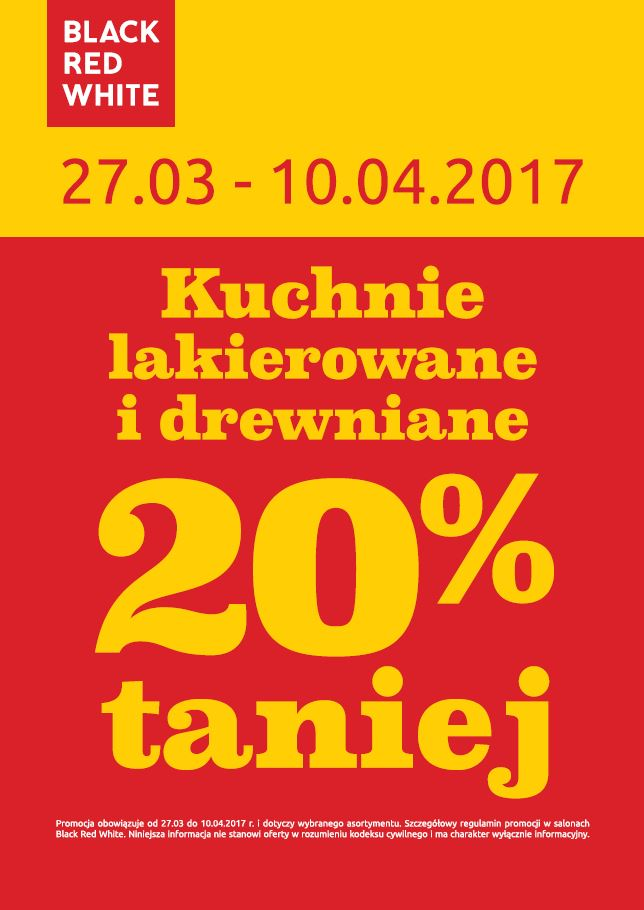
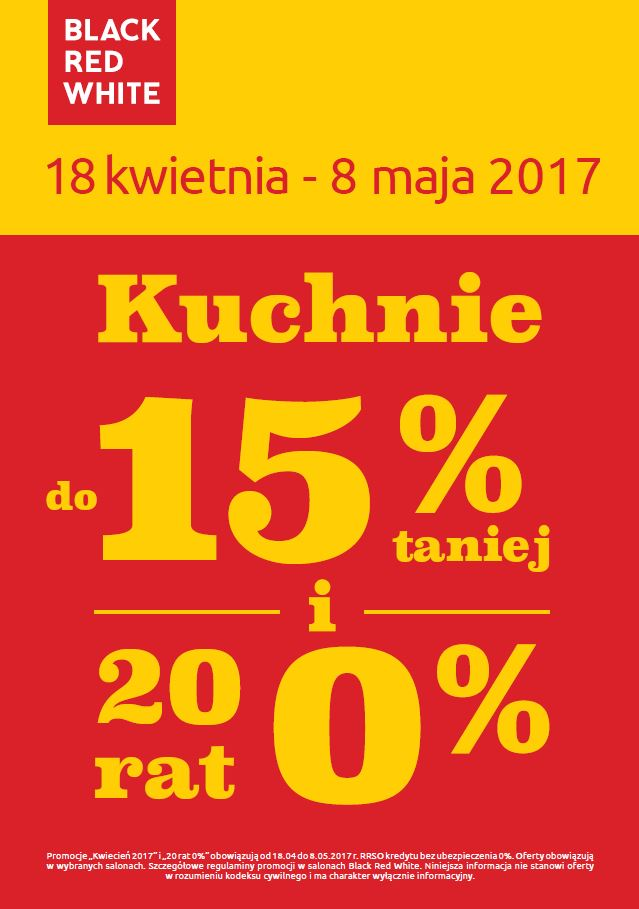
Promotion content change.

diff --git a/promocje.html b/promocje.html
@@ -63,17 +63,17 @@
 
   <div class="promotioncontainer">
 
-    <div class="promotionbox">
+		<div class="promotionbox">
       <article class="promotionimagebox">
-        <img class="promotionimage" src="bazapromocji/promotion1.jpg"></img>
+        <span class="frame"></span><img class="promotionimage" src="bazapromocji/promotion2.jpg"></img>
       </article>
       <article class="promotiondescription">
-				<a href="http://www.forte.com.pl/promocje.html" target="_blank"><img class ="promotionlogo" alt="Promocja mebli Forte" src="gallery/producenci/logo-forte.jpg"></img></a>
-        <h2>25 RAT 0% ALBO 15% RABATU</h2>
-				<h3>Czas trwania: 17.03.2017 - 11.04.2017</h3>
-				<h4>Tylko teraz kupisz meble, krzesła, stoły i artykuły dekoracyjne z dodatkowym rabatem 15% albo w korzystnych ratach 0%. Promocją objęte są wybrane meble z systemów: ALCANO, AVINION, CALPE, CANNE, CANTO, COMBINO, DANY, DURO, GARLAND, INDIGO, JULIETTA, KASHMIR, LATINA, LOCARNO, LOMBARDO, MAXIMUS, SAINTTROPEZ, SNOW, TIZIANO, TRASS, TULON, KRZESŁA i STOŁY.</h4>
-				<h4><a href="http://www.forte.com.pl/promocje.html" target="_blank">Lista mebli objętych promocją jest dostępna na stronie producenta.</a></h4>
-			</article>
+				<a href="https://www.brw.com.pl/" target="_blank"><img class ="promotionlogo" alt="Promocja mebli BRW" src="gallery/producenci/logo-brw.jpg"></img></a>
+        <h2>WIOSENNE OKAZJE DO 25% TANIEJ</h2>
+				<h3>Czas trwania: 18.04.2017 - 08.05.2017</h3>
+				<h4>To świetny czas na urządzenie mieszkania! Już od 18 kwietnia, odwiedź Salony Meblux i zapoznaj się z naszą wyjątkową ofertą! W promocji Wiosennych Okazji wybrane meble Black Red White są w promocji aż do 25%! RRSO kredytu przy zakupach ratalnych bez ubezpieczenia wynosi 0%.</h4>
+				<h4><a href="https://www.brw.com.pl/" target="_blank">Szczegóły promocji dostępne na stronie producenta.</a></h4>
+      </article>
     </div>
 
 		<div class="promotionbox">
@@ -82,10 +82,23 @@
       </article>
       <article class="promotiondescription">
 				<a href="https://www.brw.com.pl/" target="_blank"><img class ="promotionlogo" alt="Promocja mebli BRW" src="gallery/producenci/logo-brw.jpg"></img></a>
-        <h2>Kuchnie lakierowane i drewniane 20% taniej</h2>
-				<h3>Czas trwania: 27.03.2017 - 10.04.2017</h3>
-				<h4>To wymarzony moment żeby zmienić aranżację kuchni! Wyjątkowa oferta na kuchnie lakierowane i drewniane! Spełnij swoje marzenie o idealnej kuchni z rabatem 20% taniej.</h4>
-				<h4><a href="https://www.brw.com.pl/" target="_blank">Lista mebli objętych promocją jest dostępna na stronie producenta.</a></h4>
+        <h2>KUCHNIE DO 15% TANIEJ I 20 RAT 0%</h2>
+				<h3>Czas trwania: 18.04.2017 - 08.05.2017</h3>
+				<h4>Promocja na wybrane kuchnie Black Red White aż do 15% taniej. Zrealizuj swoje plany i spraw sobie idealną kuchnię na wiosnę! RRSO kredytu przy zakupach ratalnych bez ubezpieczenia wynosi 0%.</h4>
+				<h4><a href="https://www.brw.com.pl/" target="_blank">Szczegóły promocji dostępne na stronie producenta.</a></h4>
+      </article>
+    </div>
+
+		<div class="promotionbox">
+      <article class="promotionimagebox">
+        <span class="frame"></span><img class="promotionimage" src="bazapromocji/promotion4.jpg"></img>
+      </article>
+      <article class="promotiondescription">
+				<a href="https://www.brw.com.pl/" target="_blank"><img class ="promotionlogo" alt="Promocja mebli BRW" src="gallery/producenci/logo-brw.jpg"></img></a>
+        <h2>SOFA ZOJA W TANIEJ O 500 ZŁ</h2>
+				<h3>Czas trwania: 18.04.2017 - 08.05.2017</h3>
+				<h4><strong>Cechy szczególne mebla:</strong><br>
+				Sprawnie i lekko działający automat wspomagający rozkładanie, bonell w siedzisku i oparciu czyli całej powierzchni spania zapewniający komfortowe i jednorodne spanie. Nici ozdobne - ścieg dwuigłowy ze zwiększoną wytrzymałością szwów i estetyką wykończenia. <br>Obszerny pojemnik, duża i równa powierzchnia spania zapewniają funkcjonalność i wygodę. System kieszeniowego wypełnienia poduszek oparciowych pianką poiliuretanową z włókniną silikonową zwiększają trwałość poduszki i poprawiają komfort oparcia, optymalnie i ergonomicznie dopasowując się do ciała. <br>Pojemnik biała płyta wskazuje na wysoką estetykę wykonania.	Stopki wykonane są z tworzywa chromowanego.</h4>
       </article>
     </div>
 
